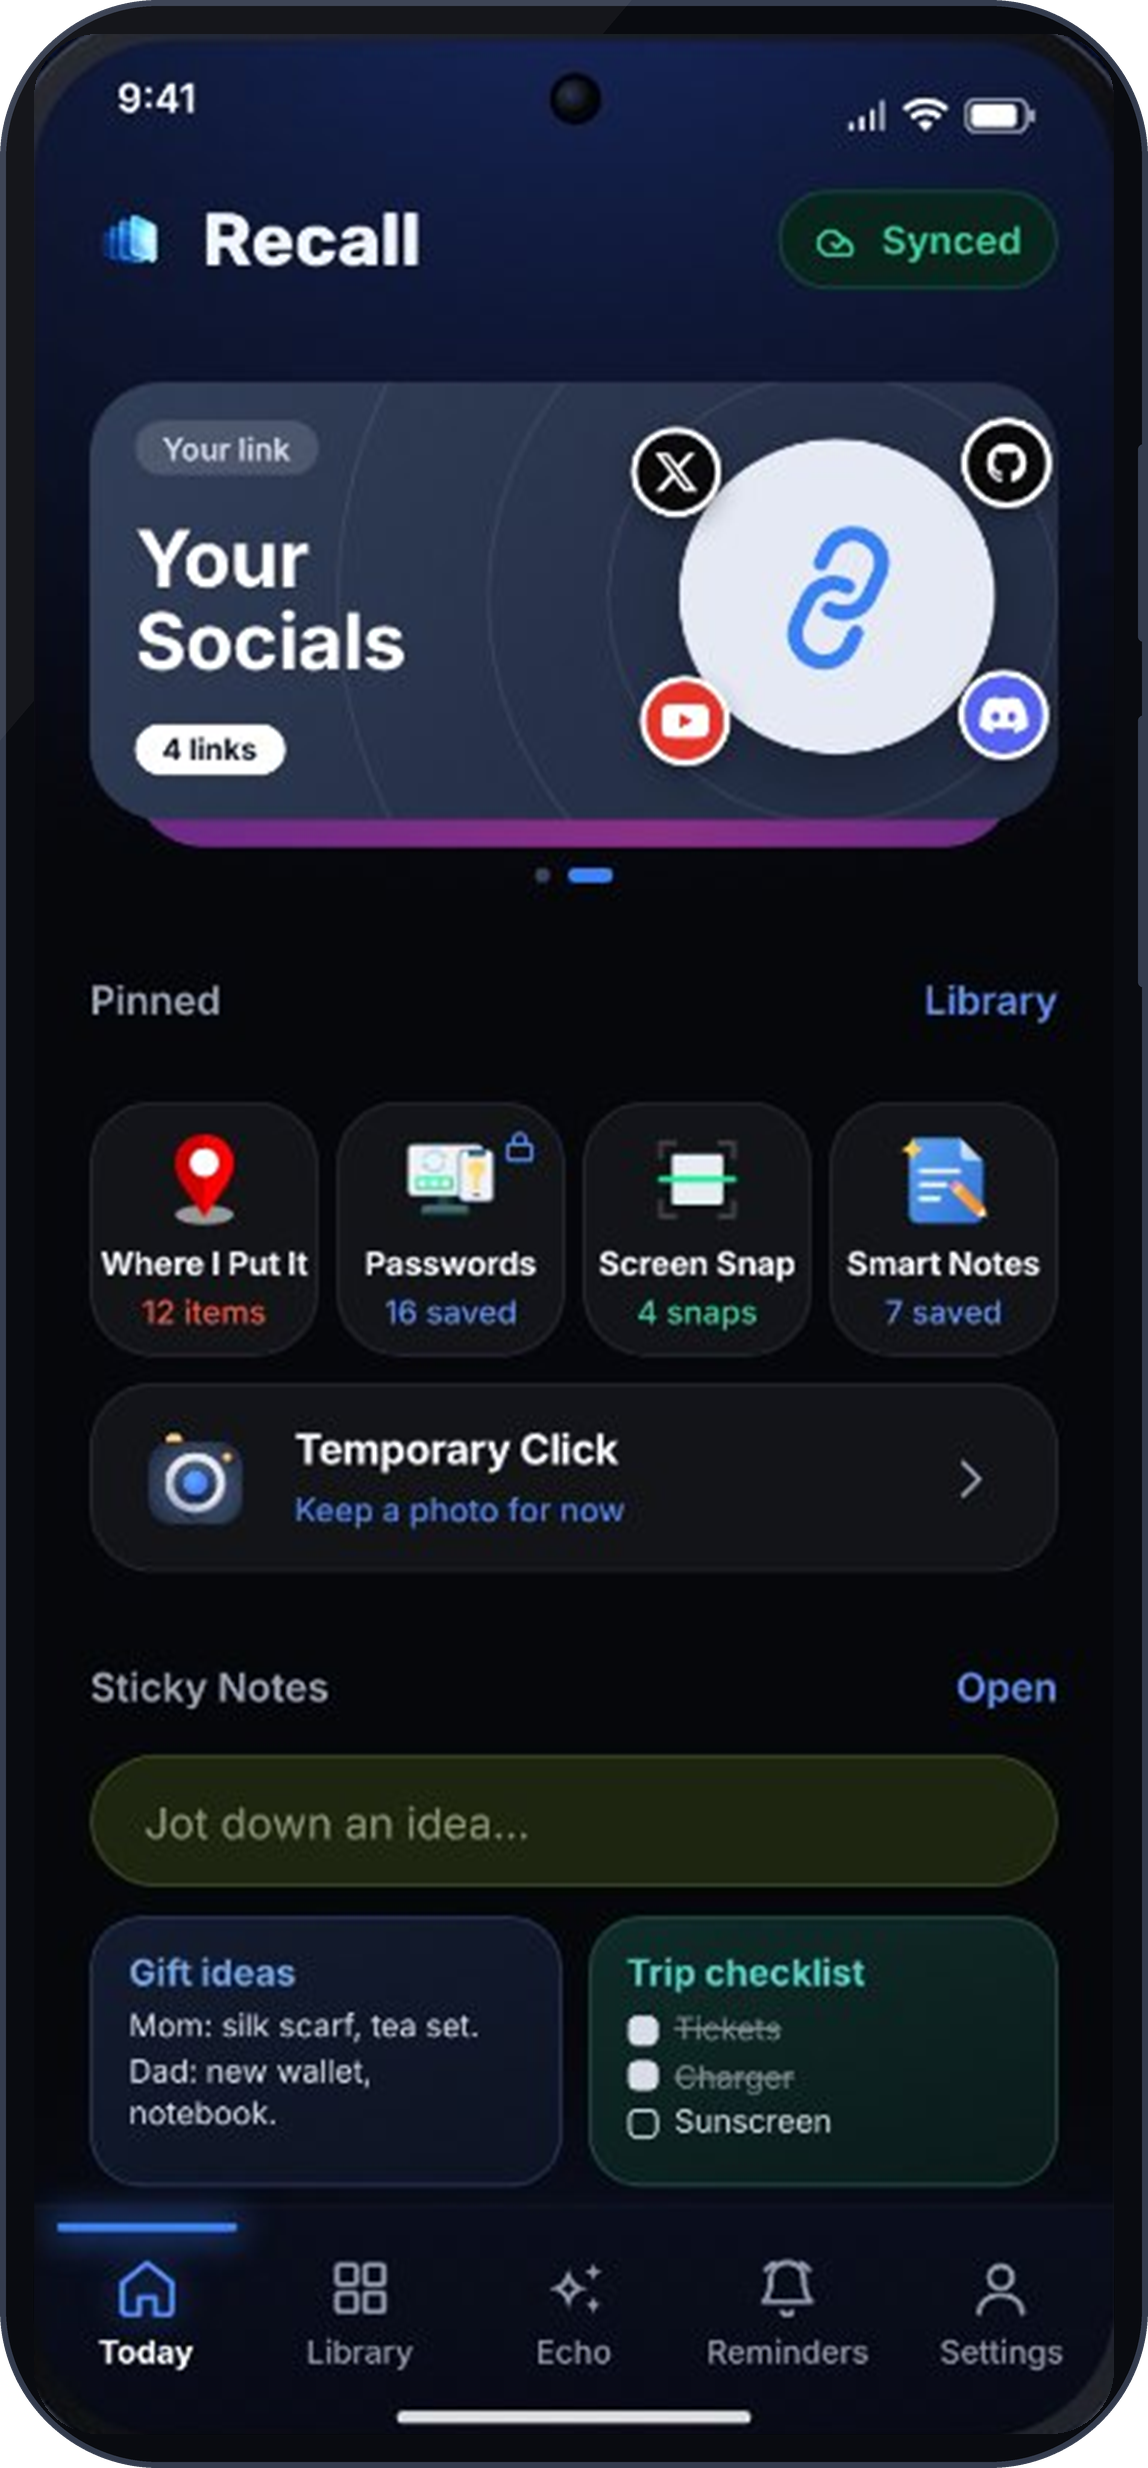
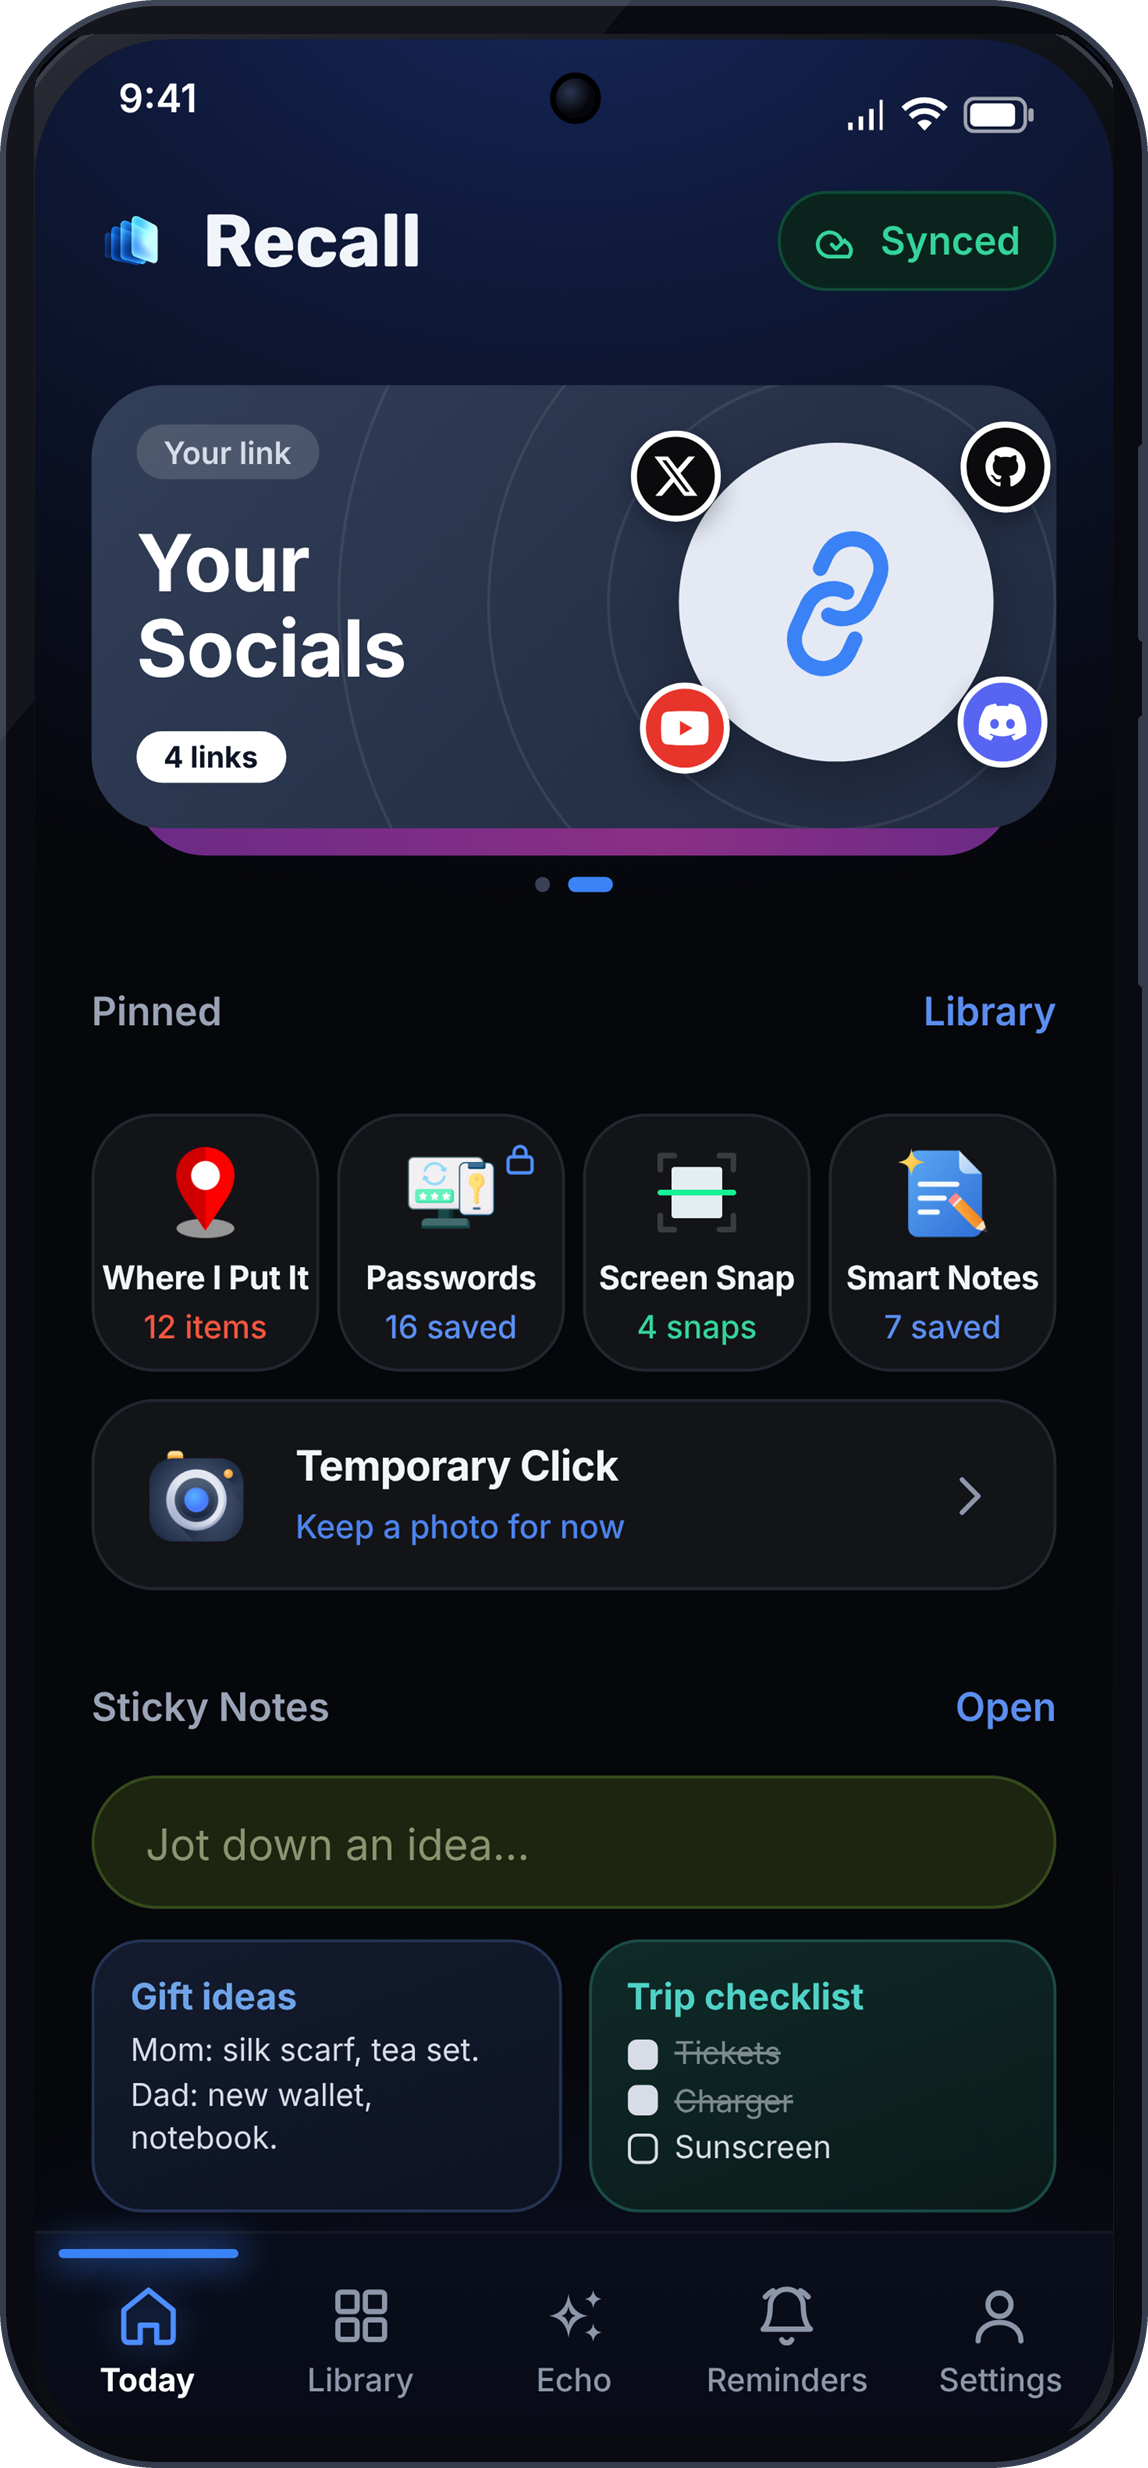
Update Recall with 4K HQ mockups and add Privacy & Security story section

diff --git a/lib/projects.ts b/lib/projects.ts
@@ -54,16 +54,17 @@ export const projects: Project[] = [
     accent2: 'oklch(0.97 0.01 250)',
     logo: '/projects/recall/recall-icon.png',
     platforms: ['Android'],
-    features: ['Echo Assistant', 'Timeline', 'Where I Put It', 'Reminders & Alarms', 'Temporary Click', 'Library', 'Snap Text OCR', 'Google Drive Backup'],
+    features: ['Echo Assistant', 'Timeline', 'Hardware Keystore Privacy', 'Where I Put It', 'Reminders & Alarms', 'Temporary Click', 'Library', 'Snap Text OCR', 'Google Drive Backup'],
     tech: [],
     visual: 'product-image',
-    heroImage: { src: '/projects/recall/recall-hero.png', alt: 'Recall - Your second memory. Save it. Find it. Remember it.', width: 2048, height: 1024 },
-    cardImage: { src: '/projects/recall/recall-product-trio.png', alt: 'Recall Library, Home and Timeline shown together', width: 2400, height: 2560 },
+    heroImage: { src: '/projects/recall/recall-hero.png', alt: 'Recall - Your second memory. Save it. Find it. Remember it.', width: 3840, height: 1920 },
+    cardImage: { src: '/projects/recall/recall-product-trio.png', alt: 'Recall Library, Home and Timeline shown together', width: 2400, height: 2438 },
     screenshots: [
       { src: '/projects/recall/recall-echo.png', alt: 'Echo on-device AI assistant recalling passport location and upcoming week events', kind: 'framed' },
       { src: '/projects/recall/recall-library.png', alt: 'Recall Library with protected passwords, files, receipts, warranties and collections', kind: 'framed' },
       { src: '/projects/recall/recall-home.png', alt: 'Recall Home with Your Socials, pinned collections, Temporary Click and sticky notes', kind: 'framed' },
       { src: '/projects/recall/recall-timeline.png', alt: 'Timeline showing weekly memory activity, chronological history and saved notes', kind: 'framed' },
+      { src: '/projects/recall/recall-privacy.png', alt: 'Hardware keystore encryption and biometric shielding guarding private records', kind: 'framed' },
       { src: '/projects/recall/recall-drive-backup.png', alt: 'Google Drive Backup with completed backup status and automatic backup controls', kind: 'framed' },
     ],
     caseStudy: {

diff --git a/components/case-study/recall-story.tsx b/components/case-study/recall-story.tsx
@@ -21,6 +21,11 @@ const stories = [
     { title: 'Weekly glance & activity', text: 'Track every saved note, memory and deletion across your days with an at-a-glance weekly activity breakdown.' },
     { title: 'Chronological memory stream', text: 'Review past actions grouped by Today, Yesterday or earlier dates, with flexible filters to reconstruct your days.' },
   ] },
+  { title: 'Privacy & Security', intro: '100% on-device. Zero telemetry.', details: [
+    { title: 'Hardware Keystore encryption', text: 'Sensitive records, logins, passwords and ID cards are secured with hardware-backed AES-256-GCM in the Android Keystore.' },
+    { title: 'Biometric shielding', text: 'Guarded behind fingerprint or face authentication with built-in screen shielding against screenshots and recents previews.' },
+    { title: 'Zero trackers & no cloud required', text: 'Zero analytics SDKs, zero ad networks, and no mandatory cloud accounts. All your notes and photos stay strictly local.' },
+  ] },
   { title: 'Google Drive Backup', intro: 'A clear view of your backup.', details: [
     { title: 'Status and control', text: 'See when the last backup completed and start another when you need it. Choose daily or weekly automatic backups and whether to use an unmetered network.' },
   ] },
